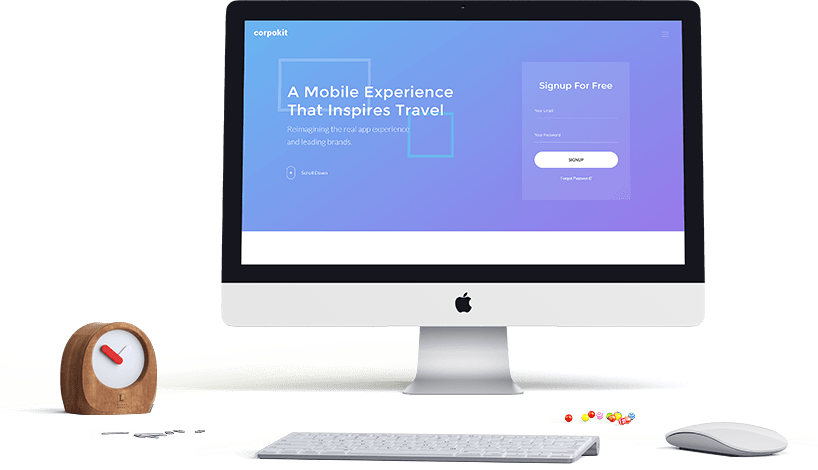
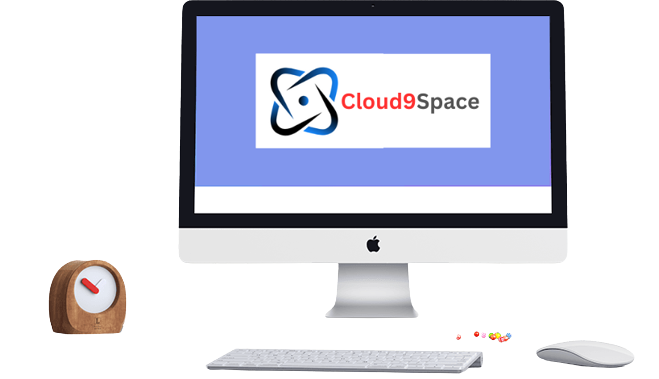
2023-10-30 Website

diff --git a/services.html b/services.html
@@ -144,11 +144,11 @@
 
         <!--========== PAGE CONTENT ==========-->
         <!-- Mockup -->
-        <div class="container g-margin-t-o-150--xs">
+        <!-- <div class="container g-margin-t-o-150--xs">
             <div class="center-block s-mockup-v1">
                 <img class="img-responsive" src="img/mockups/devices-01.png" alt="Mockup Image">
             </div>
-        </div>
+        </div> -->
         <!-- End Mockup -->
 
 
